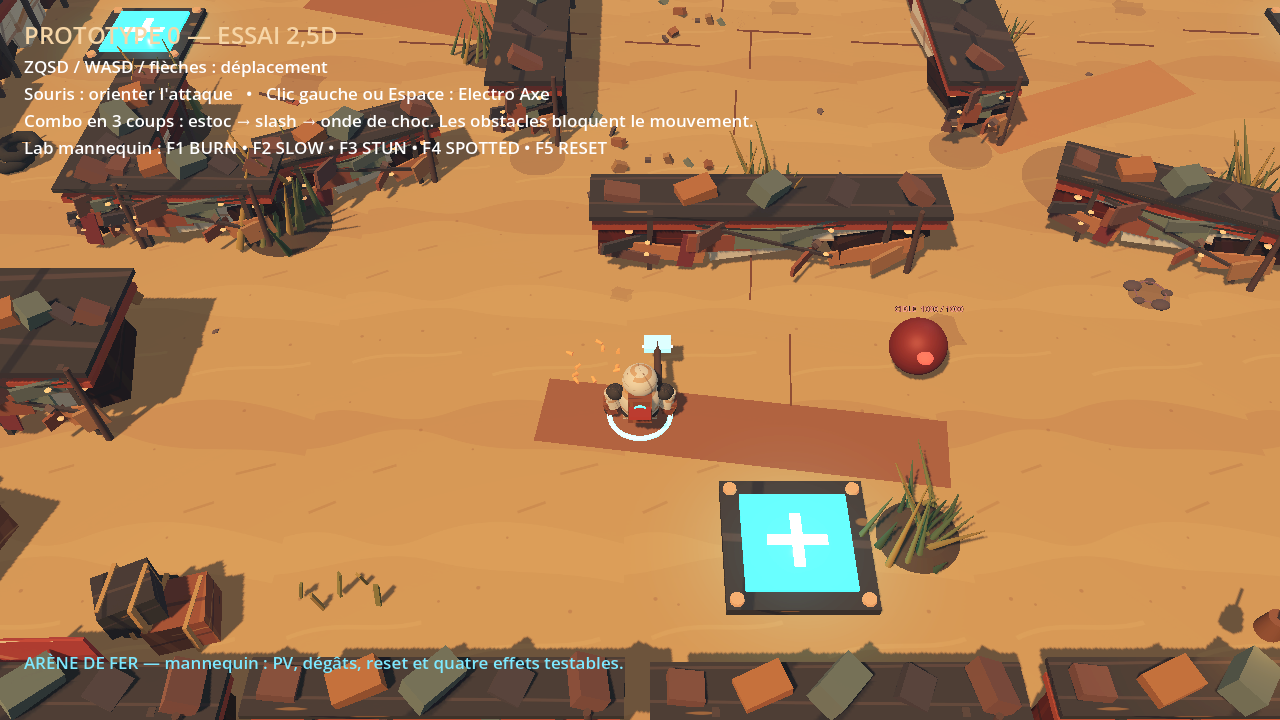
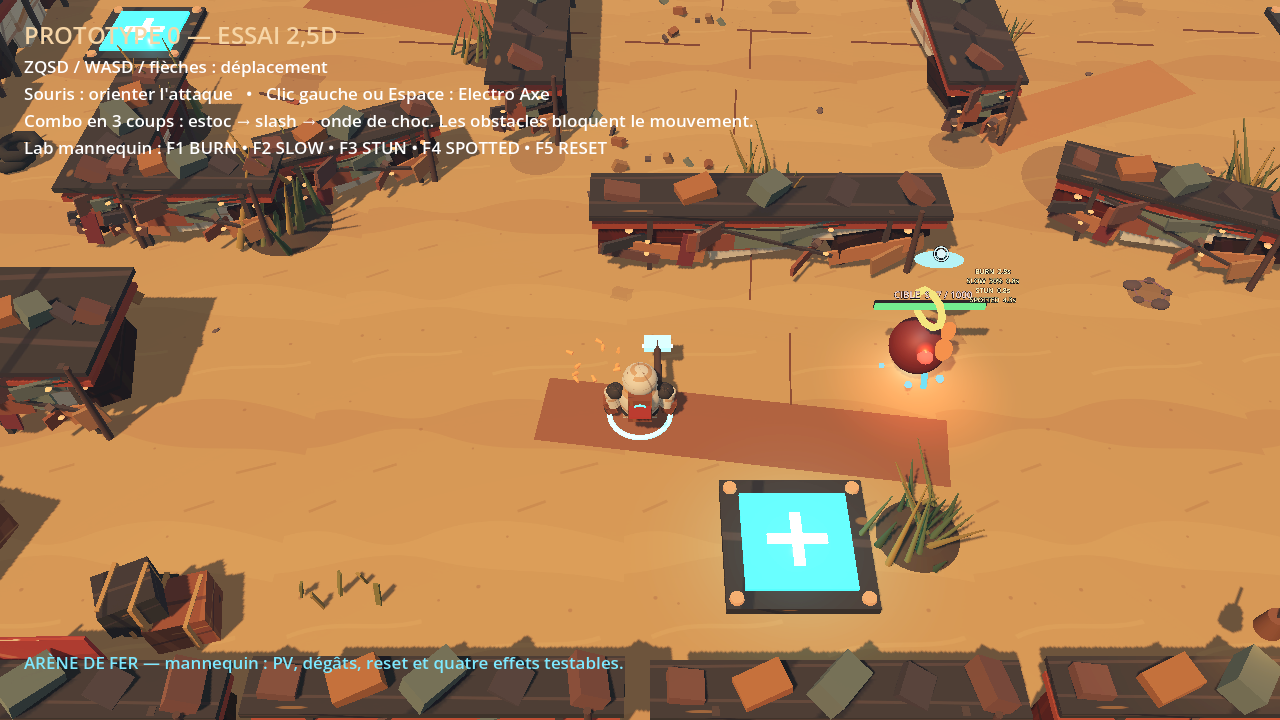
Improve mannequin effect readability

diff --git a/README.md b/README.md
@@ -39,7 +39,9 @@ restent des repères visuels sans collision supplémentaire.
   doublons d'attaque et reset indépendant par acteur.
 - **P0-102 — implémenté, à tester manuellement :** BURN, SLOW, STUN et SPOTTED sont
   appliqués par le même état et visibles sur le mannequin. F1/F2/F3/F4 les appliquent,
-  F5 réinitialise l'essai ; ce sont des raccourcis PC de validation temporaires.
+  F5 réinitialise l'essai ; ce sont des raccourcis PC de validation temporaires. La
+  lisibilité de la validation a été renforcée : barre de PV large, flammes et lumière
+  animées pour BURN, anneau et motes cyan pour SLOW, halo STUN et œil SPOTTED émissif.
 - **Tests automatisés :** `tools/test_combat_state.gd` et `tools/test_target_dummy.gd` PASS ;
   les valeurs testées incluent BURN isolé à 70 dégâts, non-cumul, slow maximal,
   expiration, STUN/SPOTTED, overkill, overheal, attaque dupliquée, BURN absorbé pendant
@@ -57,7 +59,7 @@ Les captures réellement rendues par Godot sont conservées dans `captures/` :
 - `prototype0_detail.png` : lecture rapprochée d'un couvert et du sol ;
 - `prototype0_spectators.png` : cadrage de validation de la bordure extérieure ;
 - `prototype0_effects.png` : capture du mannequin avec les quatre états appliqués par le
-  harnais de validation.
+  harnais de validation (capture Mobile après attente de l'initialisation de la cible).
 
 Elles ont été produites avec le renderer Mobile via le pilote D3D12 sur le GPU disponible
 (NVIDIA GeForce RTX 3070 Laptop GPU). Aucun nombre de FPS Android n'est déduit de cette
